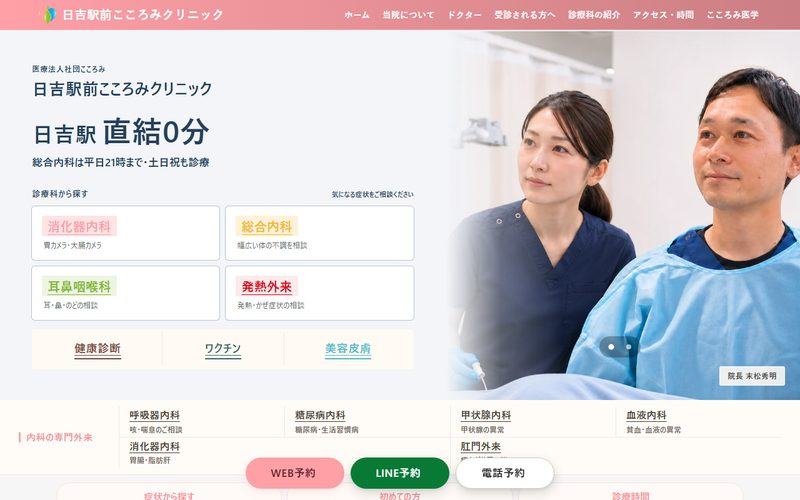
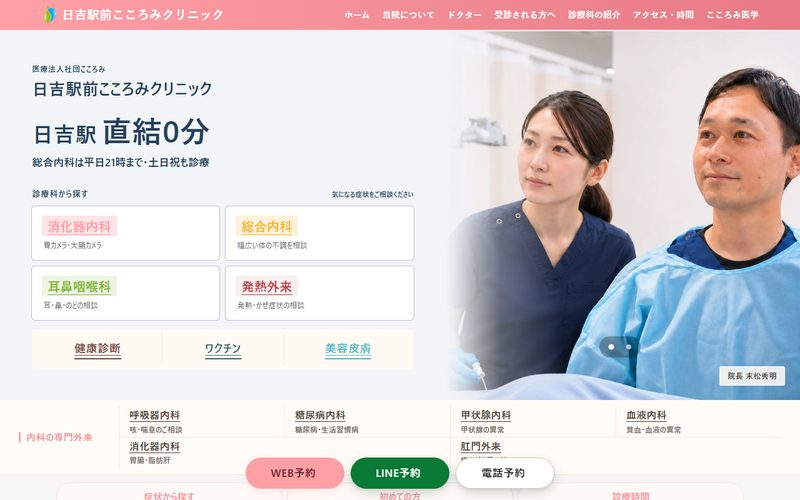
fix: 発熱外来の赤をおさえ、ヘッダーのグラデーションの右端をくすまない色に（v0.16.0）
- 発熱外来の赤 #E60012 → #BF3F48（濃い赤 #B4000E → #903139）。以前の案の「落ち着いた赤」。赤い面の予約ボタンの文字は白に
- ヘッダーの右端：黒を混ぜる（くすむ）のをやめ、同じ色相のまま明るさを下げ鮮やかさを保った色に
  （#E77984／#D49700／#649700／#004980／#009CAC／#DA764B／発熱 #9D1B2D）
- 読み込み版番号 ?v=0.16.0、縮小画像を撮り直し

Changed region(s): [[0.6875, 0.0, 1.0, 0.06], [0.2812, 0.54, 0.375, 0.6], [0.625, 0.0, 0.6562, 0.03]]

diff --git a/fv-patterns/assets/fvp.css b/fv-patterns/assets/fvp.css
@@ -1,4 +1,4 @@
-/* 最初の画面の背景7パターン v0.15.0（土台は 2026-06-23〜29 の色＝sample.css。v0.12.0 は5パターン、v0.13.0 で6・7を追加）
+/* 最初の画面の背景7パターン v0.16.0（土台は 2026-06-23〜29 の色＝sample.css。v0.12.0 は5パターン、v0.13.0 で6・7を追加）
    ご依頼（2026-11-26）：「6月のもとの色を採用。基本、新たな色はつくらない。
      各科のページ、トップのグロナビの色はグラデーションをかけて。
      各ページ、ファーストビューの写真の背景の各科の色はとる。かわりに、各科の背景色ではなく全科統一の背景色にする。
@@ -7,6 +7,7 @@
    追加のご依頼（2026-11-26）：「背景色に、うすいグレー、うすいネイビーも追加して」→ ⑥⑦
    さらに「うすいグレー・うすいネイビーはうすすぎた。グレー、ネイビーよりもう少しうすくした感じ」→ v0.14.0 で⑥⑦の濃さを変更
    さらに「薄いグレーをブルーグレーのもう少しこいのにできる？グレーみたいな感じ」→ v0.15.0 で⑥をブルーグレー（濃いめ）に
+   さらに「発熱外来の赤はもう少し色味をおさえて」→ v0.16.0 で発熱外来の赤を落ち着いた赤に（html.fvr・全パターン共通）
    html.fvp ＝ この見本 ／ html.fv1〜fv7 ＝ パターン ／ html.fvL ＝ 明るい背景（1〜3・6：文字を濃い色に） ／ html.fvD ＝ 暗い背景（4・5・7：文字は6月どおり白）
    新しく作った色はない：①⑤は②（v0.3.0）、②は案1（v0.9.0）で使った色、③の文字は各科の6月の濃い色、④のグレーはご指定、⑥は②のブルーグレー #41607F、⑦は⑤のネイビーを白で薄めた色（色相は同じ） */
 
@@ -21,11 +22,30 @@ html.fv6{--fv-bg:#BCC7D2;--fv-ink:#253F5C;--fv-line:rgba(37,63,92,.30)}   /* ブ
                                                                             v0.14.0 の「うすいグレー」#9EA2A5＋#2B3036 は color-sample-v0.14.0/ に凍結 */
 html.fv7{--fv-bg:#5C6F85;--fv-ink:#fff}                                    /* うすいネイビー＝⑤のネイビー #253F5C を白で25%薄く（L*46）＋白い文字 5.2:1 */
 
-/* ===== ヘッダー（グロナビ）：6月の色 → 右へ少し濃く（同じ色の濃淡。色相は変えない） =====
-   --jt-fill は sample.css が body に科ごとに置いている6月の面の色（トップ・消化器 #FFA0A7／総合内科 #F8B62D／耳鼻 #81B732／
-   心療 #0A65AC／皮膚 #4FBAC9／健診 #F29C78／発熱 #E60012）。科ごとの値になるよう body に置く。
+/* ===== 発熱外来の赤（全パターン共通・v0.16.0） =====
+   6月の #E60012 → #BF3F48、濃い赤 #B4000E → #903139（どちらも v0.5.0〜v0.7.0 の「落ち着いた赤」で使った色）。
+   発熱外来のページ全体（ヘッダーのグラデーション・ボタン・見出しなど）とトップの「発熱外来」の札に効く。
+   サイト側は --jfever-*（sample.css）と --jc-E60012・--jc-B4000E（発熱外来の style-fever.css）で赤を決めているので、その変数を置き換える */
+html.fvr{--jfever-main:#BF3F48;--jfever-text:#BF3F48;--jfever-fill:#BF3F48;--jfever-dark:#903139;--jc-E60012:#BF3F48;--jc-B4000E:#903139}
+/* 赤い面の予約ボタン（WEB予約・24時間いつでも など）：暗い赤の文字は 6月でも 2.8:1、落ち着いた赤では 2.4:1 になるので、白い文字に（5.2:1）。
+   v0.5.0〜v0.7.0 の「落ち着いた赤」と同じ扱い。白い面の予約ボタン（最初の画面の WEB予約）はそのまま */
+html.fvr:not(#_j):not(#_k):not(#_l) body#fever .div-cta a.a-button-cta-web:not(.hero-booking-action),
+html.fvr:not(#_j):not(#_k):not(#_l) body#fever .div-cta a.a-button-cta-web:not(.hero-booking-action) *{color:#fff!important}
+
+/* ===== ヘッダー（グロナビ）：左は6月の色そのまま → 右へ少し濃く。v0.16.0 で右端を「くすまない色」に =====
+   ご意見「各院グロナビのグラデーション、右側がくすんでて、もうすこし発色がいいくすまない色がいい」
+   v0.12.0〜v0.15.0 は右端を「黒を16%混ぜた色」にしていて、黒が混ざるぶん鮮やかさも落ちてくすんでいた。
+   v0.16.0 は右端を、同じ色相のまま「明るさ（OKLCH の L）を 0.10 下げ、鮮やかさ（C）を 1.2倍」にした色（sRGB に入る範囲で）。
+   発熱外来だけは「赤をおさえて」のご依頼どおり、鮮やかさは上げず明るさだけ下げた。古いブラウザでも同じに見えるよう、計算した色を書く。
+   --jt-fill は sample.css が body に科ごとに置いている左端の色。科ごとの値になるよう body に置く。
    ヘッダーの色はサイト側の @layer clinicHeaderDesktop（!important）が決めるので、sample.css で先に宣言した jsample レイヤーの中で上書きする */
-html.fvp body{--fv-head:linear-gradient(90deg,var(--jt-fill) 0%,color-mix(in oklab,var(--jt-fill) 84%,#000) 100%)}
+html.fvp body{--fv-head-r:#E77984;--fv-head:linear-gradient(90deg,var(--jt-fill) 0%,var(--fv-head-r) 100%)}   /* トップ・消化器 #FFA0A7 → #E77984 */
+html.fvp body#general{--fv-head-r:#D49700}    /* #F8B62D → #D49700 */
+html.fvp body#ent{--fv-head-r:#649700}        /* #81B732 → #649700 */
+html.fvp body#mental{--fv-head-r:#004980}     /* #0A65AC → #004980 */
+html.fvp body#derm{--fv-head-r:#009CAC}       /* #4FBAC9 → #009CAC */
+html.fvp body#checkups{--fv-head-r:#DA764B}   /* #F29C78 → #DA764B */
+html.fvp body#fever{--fv-head-r:#9D1B2D}      /* 発熱（落ち着いた赤）#BF3F48 → #9D1B2D */
 @layer jsample{
   html.fvp body #header:not(:has(.div-header-global)),html.fvp body #header .div-header-global{background:var(--fv-head)!important}
 }

diff --git a/fv-patterns/checkups/index.html b/fv-patterns/checkups/index.html
@@ -3,10 +3,10 @@
 <html lang="ja">
   <head prefix="og: http://ogp.me/ns# fb: http://ogp.me/ns/fb# website: http://ogp.me/ns/website#">
 <meta name="robots" content="noindex,nofollow">
-<script>(function(){var h=document.documentElement,q=(location.search.match(/[?&]p=([1-7])\b/)||[])[1],s=null;try{s=localStorage.getItem("jFvPat")}catch(e){}var m=q||s||"1";if(!/^[1-7]$/.test(m))m="1";if(q){try{localStorage.setItem("jFvPat",m)}catch(e){}}h.classList.add("fvp","fv"+m,/^[1236]$/.test(m)?"fvL":"fvD")})();</script>
+<script>(function(){var h=document.documentElement,q=(location.search.match(/[?&]p=([1-7])\b/)||[])[1],s=null;try{s=localStorage.getItem("jFvPat")}catch(e){}var m=q||s||"1";if(!/^[1-7]$/.test(m))m="1";if(q){try{localStorage.setItem("jFvPat",m)}catch(e){}}h.classList.add("fvp","fvr","fv"+m,/^[1236]$/.test(m)?"fvL":"fvD")})();</script>
 
-<link rel="stylesheet" href="../assets/sample.css?v=0.15.0">
-<link rel="stylesheet" href="../assets/fvp.css?v=0.15.0">
+<link rel="stylesheet" href="../assets/sample.css?v=0.16.0">
+<link rel="stylesheet" href="../assets/fvp.css?v=0.16.0">
 
 
 
@@ -1674,7 +1674,7 @@ margin-block-end: 24px;
 var e="script#wp-emoji-settings",t=document.querySelector(e);if(!(t instanceof HTMLScriptElement))throw new Error("Element missing: "+e);const r=JSON.parse(t.text),s=(window._wpemojiSettings=r,"wpEmojiSettingsSupports"),o=["flag","emoji"];function i(e){try{var t={supportTests:e,timestamp:(new Date).valueOf()};sessionStorage.setItem(s,JSON.stringify(t))}catch(e){}}function c(e,t,n){e.clearRect(0,0,e.canvas.width,e.canvas.height),e.fillText(t,0,0);t=new Uint32Array(e.getImageData(0,0,e.canvas.width,e.canvas.height).data);e.clearRect(0,0,e.canvas.width,e.canvas.height),e.fillText(n,0,0);const r=new Uint32Array(e.getImageData(0,0,e.canvas.width,e.canvas.height).data);return t.every((e,t)=>e===r[t])}function p(e,t){e.clearRect(0,0,e.canvas.width,e.canvas.height),e.fillText(t,0,0);var n=e.getImageData(16,16,1,1);for(let e=0;e<n.data.length;e++)if(0!==n.data[e])return!1;return!0}function u(e,t,n,r){switch(t){case"flag":return n(e,"\ud83c\udff3\ufe0f\u200d\u26a7\ufe0f","\ud83c\udff3\ufe0f\u200b\u26a7\ufe0f")?!1:!n(e,"\ud83c\udde8\ud83c\uddf6","\ud83c\udde8\u200b\ud83c\uddf6")&&!n(e,"\ud83c\udff4\udb40\udc67\udb40\udc62\udb40\udc65\udb40\udc6e\udb40\udc67\udb40\udc7f","\ud83c\udff4\u200b\udb40\udc67\u200b\udb40\udc62\u200b\udb40\udc65\u200b\udb40\udc6e\u200b\udb40\udc67\u200b\udb40\udc7f");case"emoji":return!r(e,"\ud83e\u1fac8")}return!1}function f(e,t,n,r){let a;const s=(a="undefined"!=typeof WorkerGlobalScope&&self instanceof WorkerGlobalScope?new OffscreenCanvas(300,150):document.createElement("canvas")).getContext("2d",{willReadFrequently:!0}),o=(s.textBaseline="top",s.font="600 32px Arial",{});return e.forEach(e=>{o[e]=t(s,e,n,r)}),o}function a(e){var t=document.createElement("script");t.src=e,t.defer=!0,document.head.appendChild(t)}r.supports={everything:!0,everythingExceptFlag:!0},new Promise(t=>{let n=function(){try{var e=JSON.parse(sessionStorage.getItem(s));if("object"==typeof e&&"number"==typeof e.timestamp&&(new Date).valueOf()<e.timestamp+604800&&"object"==typeof e.supportTests)return e.supportTests}catch(e){}return null}();if(!n){if("undefined"!=typeof Worker&&"undefined"!=typeof OffscreenCanvas&&"undefined"!=typeof URL&&URL.createObjectURL&&"undefined"!=typeof Blob)try{var e="postMessage("+f.toString()+"("+[JSON.stringify(o),u.toString(),c.toString(),p.toString()].join(",")+"));",r=new Blob([e],{type:"text/javascript"});const a=new Worker(URL.createObjectURL(r),{name:"wpTestEmojiSupports"});return void(a.onmessage=e=>{i(n=e.data),a.terminate(),t(n)})}catch(e){}i(n=f(o,u,c,p))}t(n)}).then(e=>{for(const n in e)r.supports[n]=e[n],r.supports.everything=r.supports.everything&&r.supports[n],"flag"!==n&&(r.supports.everythingExceptFlag=r.supports.everythingExceptFlag&&r.supports[n]);var t;r.supports.everythingExceptFlag=r.supports.everythingExceptFlag&&!r.supports.flag,r.supports.everything||((t=r.source||{}).concatemoji?a(t.concatemoji):t.wpemoji&&t.twemoji&&(a(t.twemoji),a(t.wpemoji)))});
 //# sourceURL=https://hiyoshi-cocoromi-cl.jp/wp-includes/js/wp-emoji-loader.min.js
 </script>
-  <script src="../assets/fvp.js?v=0.15.0" data-page="checkups"></script>
+  <script src="../assets/fvp.js?v=0.16.0" data-page="checkups"></script>
 </body>
 </html>
 

diff --git a/fv-patterns/general/index.html b/fv-patterns/general/index.html
@@ -3,10 +3,10 @@
 <html lang="ja">
   <head prefix="og: http://ogp.me/ns# fb: http://ogp.me/ns/fb# website: http://ogp.me/ns/website#">
 <meta name="robots" content="noindex,nofollow">
-<script>(function(){var h=document.documentElement,q=(location.search.match(/[?&]p=([1-7])\b/)||[])[1],s=null;try{s=localStorage.getItem("jFvPat")}catch(e){}var m=q||s||"1";if(!/^[1-7]$/.test(m))m="1";if(q){try{localStorage.setItem("jFvPat",m)}catch(e){}}h.classList.add("fvp","fv"+m,/^[1236]$/.test(m)?"fvL":"fvD")})();</script>
+<script>(function(){var h=document.documentElement,q=(location.search.match(/[?&]p=([1-7])\b/)||[])[1],s=null;try{s=localStorage.getItem("jFvPat")}catch(e){}var m=q||s||"1";if(!/^[1-7]$/.test(m))m="1";if(q){try{localStorage.setItem("jFvPat",m)}catch(e){}}h.classList.add("fvp","fvr","fv"+m,/^[1236]$/.test(m)?"fvL":"fvD")})();</script>
 
-<link rel="stylesheet" href="../assets/sample.css?v=0.15.0">
-<link rel="stylesheet" href="../assets/fvp.css?v=0.15.0">
+<link rel="stylesheet" href="../assets/sample.css?v=0.16.0">
+<link rel="stylesheet" href="../assets/fvp.css?v=0.16.0">
 
 
 
@@ -1950,7 +1950,7 @@ margin-block-end: 24px;
 var e="script#wp-emoji-settings",t=document.querySelector(e);if(!(t instanceof HTMLScriptElement))throw new Error("Element missing: "+e);const r=JSON.parse(t.text),s=(window._wpemojiSettings=r,"wpEmojiSettingsSupports"),o=["flag","emoji"];function i(e){try{var t={supportTests:e,timestamp:(new Date).valueOf()};sessionStorage.setItem(s,JSON.stringify(t))}catch(e){}}function c(e,t,n){e.clearRect(0,0,e.canvas.width,e.canvas.height),e.fillText(t,0,0);t=new Uint32Array(e.getImageData(0,0,e.canvas.width,e.canvas.height).data);e.clearRect(0,0,e.canvas.width,e.canvas.height),e.fillText(n,0,0);const r=new Uint32Array(e.getImageData(0,0,e.canvas.width,e.canvas.height).data);return t.every((e,t)=>e===r[t])}function p(e,t){e.clearRect(0,0,e.canvas.width,e.canvas.height),e.fillText(t,0,0);var n=e.getImageData(16,16,1,1);for(let e=0;e<n.data.length;e++)if(0!==n.data[e])return!1;return!0}function u(e,t,n,r){switch(t){case"flag":return n(e,"\ud83c\udff3\ufe0f\u200d\u26a7\ufe0f","\ud83c\udff3\ufe0f\u200b\u26a7\ufe0f")?!1:!n(e,"\ud83c\udde8\ud83c\uddf6","\ud83c\udde8\u200b\ud83c\uddf6")&&!n(e,"\ud83c\udff4\udb40\udc67\udb40\udc62\udb40\udc65\udb40\udc6e\udb40\udc67\udb40\udc7f","\ud83c\udff4\u200b\udb40\udc67\u200b\udb40\udc62\u200b\udb40\udc65\u200b\udb40\udc6e\u200b\udb40\udc67\u200b\udb40\udc7f");case"emoji":return!r(e,"\ud83e\u1fac8")}return!1}function f(e,t,n,r){let a;const s=(a="undefined"!=typeof WorkerGlobalScope&&self instanceof WorkerGlobalScope?new OffscreenCanvas(300,150):document.createElement("canvas")).getContext("2d",{willReadFrequently:!0}),o=(s.textBaseline="top",s.font="600 32px Arial",{});return e.forEach(e=>{o[e]=t(s,e,n,r)}),o}function a(e){var t=document.createElement("script");t.src=e,t.defer=!0,document.head.appendChild(t)}r.supports={everything:!0,everythingExceptFlag:!0},new Promise(t=>{let n=function(){try{var e=JSON.parse(sessionStorage.getItem(s));if("object"==typeof e&&"number"==typeof e.timestamp&&(new Date).valueOf()<e.timestamp+604800&&"object"==typeof e.supportTests)return e.supportTests}catch(e){}return null}();if(!n){if("undefined"!=typeof Worker&&"undefined"!=typeof OffscreenCanvas&&"undefined"!=typeof URL&&URL.createObjectURL&&"undefined"!=typeof Blob)try{var e="postMessage("+f.toString()+"("+[JSON.stringify(o),u.toString(),c.toString(),p.toString()].join(",")+"));",r=new Blob([e],{type:"text/javascript"});const a=new Worker(URL.createObjectURL(r),{name:"wpTestEmojiSupports"});return void(a.onmessage=e=>{i(n=e.data),a.terminate(),t(n)})}catch(e){}i(n=f(o,u,c,p))}t(n)}).then(e=>{for(const n in e)r.supports[n]=e[n],r.supports.everything=r.supports.everything&&r.supports[n],"flag"!==n&&(r.supports.everythingExceptFlag=r.supports.everythingExceptFlag&&r.supports[n]);var t;r.supports.everythingExceptFlag=r.supports.everythingExceptFlag&&!r.supports.flag,r.supports.everything||((t=r.source||{}).concatemoji?a(t.concatemoji):t.wpemoji&&t.twemoji&&(a(t.twemoji),a(t.wpemoji)))});
 //# sourceURL=https://hiyoshi-cocoromi-cl.jp/wp-includes/js/wp-emoji-loader.min.js
 </script>
-  <script src="../assets/fvp.js?v=0.15.0" data-page="general"></script>
+  <script src="../assets/fvp.js?v=0.16.0" data-page="general"></script>
 </body>
 </html>
 

diff --git a/fv-patterns/gastro/index.html b/fv-patterns/gastro/index.html
@@ -3,10 +3,10 @@
 <html lang="ja">
   <head prefix="og: http://ogp.me/ns# fb: http://ogp.me/ns/fb# website: http://ogp.me/ns/website#">
 <meta name="robots" content="noindex,nofollow">
-<script>(function(){var h=document.documentElement,q=(location.search.match(/[?&]p=([1-7])\b/)||[])[1],s=null;try{s=localStorage.getItem("jFvPat")}catch(e){}var m=q||s||"1";if(!/^[1-7]$/.test(m))m="1";if(q){try{localStorage.setItem("jFvPat",m)}catch(e){}}h.classList.add("fvp","fv"+m,/^[1236]$/.test(m)?"fvL":"fvD")})();</script>
+<script>(function(){var h=document.documentElement,q=(location.search.match(/[?&]p=([1-7])\b/)||[])[1],s=null;try{s=localStorage.getItem("jFvPat")}catch(e){}var m=q||s||"1";if(!/^[1-7]$/.test(m))m="1";if(q){try{localStorage.setItem("jFvPat",m)}catch(e){}}h.classList.add("fvp","fvr","fv"+m,/^[1236]$/.test(m)?"fvL":"fvD")})();</script>
 
-<link rel="stylesheet" href="../assets/sample.css?v=0.15.0">
-<link rel="stylesheet" href="../assets/fvp.css?v=0.15.0">
+<link rel="stylesheet" href="../assets/sample.css?v=0.16.0">
+<link rel="stylesheet" href="../assets/fvp.css?v=0.16.0">
 
 
 
@@ -2147,7 +2147,7 @@ margin-block-end: 24px;
 var e="script#wp-emoji-settings",t=document.querySelector(e);if(!(t instanceof HTMLScriptElement))throw new Error("Element missing: "+e);const r=JSON.parse(t.text),s=(window._wpemojiSettings=r,"wpEmojiSettingsSupports"),o=["flag","emoji"];function i(e){try{var t={supportTests:e,timestamp:(new Date).valueOf()};sessionStorage.setItem(s,JSON.stringify(t))}catch(e){}}function c(e,t,n){e.clearRect(0,0,e.canvas.width,e.canvas.height),e.fillText(t,0,0);t=new Uint32Array(e.getImageData(0,0,e.canvas.width,e.canvas.height).data);e.clearRect(0,0,e.canvas.width,e.canvas.height),e.fillText(n,0,0);const r=new Uint32Array(e.getImageData(0,0,e.canvas.width,e.canvas.height).data);return t.every((e,t)=>e===r[t])}function p(e,t){e.clearRect(0,0,e.canvas.width,e.canvas.height),e.fillText(t,0,0);var n=e.getImageData(16,16,1,1);for(let e=0;e<n.data.length;e++)if(0!==n.data[e])return!1;return!0}function u(e,t,n,r){switch(t){case"flag":return n(e,"\ud83c\udff3\ufe0f\u200d\u26a7\ufe0f","\ud83c\udff3\ufe0f\u200b\u26a7\ufe0f")?!1:!n(e,"\ud83c\udde8\ud83c\uddf6","\ud83c\udde8\u200b\ud83c\uddf6")&&!n(e,"\ud83c\udff4\udb40\udc67\udb40\udc62\udb40\udc65\udb40\udc6e\udb40\udc67\udb40\udc7f","\ud83c\udff4\u200b\udb40\udc67\u200b\udb40\udc62\u200b\udb40\udc65\u200b\udb40\udc6e\u200b\udb40\udc67\u200b\udb40\udc7f");case"emoji":return!r(e,"\ud83e\u1fac8")}return!1}function f(e,t,n,r){let a;const s=(a="undefined"!=typeof WorkerGlobalScope&&self instanceof WorkerGlobalScope?new OffscreenCanvas(300,150):document.createElement("canvas")).getContext("2d",{willReadFrequently:!0}),o=(s.textBaseline="top",s.font="600 32px Arial",{});return e.forEach(e=>{o[e]=t(s,e,n,r)}),o}function a(e){var t=document.createElement("script");t.src=e,t.defer=!0,document.head.appendChild(t)}r.supports={everything:!0,everythingExceptFlag:!0},new Promise(t=>{let n=function(){try{var e=JSON.parse(sessionStorage.getItem(s));if("object"==typeof e&&"number"==typeof e.timestamp&&(new Date).valueOf()<e.timestamp+604800&&"object"==typeof e.supportTests)return e.supportTests}catch(e){}return null}();if(!n){if("undefined"!=typeof Worker&&"undefined"!=typeof OffscreenCanvas&&"undefined"!=typeof URL&&URL.createObjectURL&&"undefined"!=typeof Blob)try{var e="postMessage("+f.toString()+"("+[JSON.stringify(o),u.toString(),c.toString(),p.toString()].join(",")+"));",r=new Blob([e],{type:"text/javascript"});const a=new Worker(URL.createObjectURL(r),{name:"wpTestEmojiSupports"});return void(a.onmessage=e=>{i(n=e.data),a.terminate(),t(n)})}catch(e){}i(n=f(o,u,c,p))}t(n)}).then(e=>{for(const n in e)r.supports[n]=e[n],r.supports.everything=r.supports.everything&&r.supports[n],"flag"!==n&&(r.supports.everythingExceptFlag=r.supports.everythingExceptFlag&&r.supports[n]);var t;r.supports.everythingExceptFlag=r.supports.everythingExceptFlag&&!r.supports.flag,r.supports.everything||((t=r.source||{}).concatemoji?a(t.concatemoji):t.wpemoji&&t.twemoji&&(a(t.twemoji),a(t.wpemoji)))});
 //# sourceURL=https://hiyoshi-cocoromi-cl.jp/wp-includes/js/wp-emoji-loader.min.js
 </script>
-  <script src="../assets/fvp.js?v=0.15.0" data-page="gastro"></script>
+  <script src="../assets/fvp.js?v=0.16.0" data-page="gastro"></script>
 </body>
 </html>
 

diff --git a/fv-patterns/mental/index.html b/fv-patterns/mental/index.html
@@ -3,10 +3,10 @@
 <html lang="ja">
   <head prefix="og: http://ogp.me/ns# fb: http://ogp.me/ns/fb# website: http://ogp.me/ns/website#">
 <meta name="robots" content="noindex,nofollow">
-<script>(function(){var h=document.documentElement,q=(location.search.match(/[?&]p=([1-7])\b/)||[])[1],s=null;try{s=localStorage.getItem("jFvPat")}catch(e){}var m=q||s||"1";if(!/^[1-7]$/.test(m))m="1";if(q){try{localStorage.setItem("jFvPat",m)}catch(e){}}h.classList.add("fvp","fv"+m,/^[1236]$/.test(m)?"fvL":"fvD")})();</script>
+<script>(function(){var h=document.documentElement,q=(location.search.match(/[?&]p=([1-7])\b/)||[])[1],s=null;try{s=localStorage.getItem("jFvPat")}catch(e){}var m=q||s||"1";if(!/^[1-7]$/.test(m))m="1";if(q){try{localStorage.setItem("jFvPat",m)}catch(e){}}h.classList.add("fvp","fvr","fv"+m,/^[1236]$/.test(m)?"fvL":"fvD")})();</script>
 
-<link rel="stylesheet" href="../assets/sample.css?v=0.15.0">
-<link rel="stylesheet" href="../assets/fvp.css?v=0.15.0">
+<link rel="stylesheet" href="../assets/sample.css?v=0.16.0">
+<link rel="stylesheet" href="../assets/fvp.css?v=0.16.0">
 
 
 
@@ -1375,7 +1375,7 @@ margin-block-end: 24px;
 var e="script#wp-emoji-settings",t=document.querySelector(e);if(!(t instanceof HTMLScriptElement))throw new Error("Element missing: "+e);const r=JSON.parse(t.text),s=(window._wpemojiSettings=r,"wpEmojiSettingsSupports"),o=["flag","emoji"];function i(e){try{var t={supportTests:e,timestamp:(new Date).valueOf()};sessionStorage.setItem(s,JSON.stringify(t))}catch(e){}}function c(e,t,n){e.clearRect(0,0,e.canvas.width,e.canvas.height),e.fillText(t,0,0);t=new Uint32Array(e.getImageData(0,0,e.canvas.width,e.canvas.height).data);e.clearRect(0,0,e.canvas.width,e.canvas.height),e.fillText(n,0,0);const r=new Uint32Array(e.getImageData(0,0,e.canvas.width,e.canvas.height).data);return t.every((e,t)=>e===r[t])}function p(e,t){e.clearRect(0,0,e.canvas.width,e.canvas.height),e.fillText(t,0,0);var n=e.getImageData(16,16,1,1);for(let e=0;e<n.data.length;e++)if(0!==n.data[e])return!1;return!0}function u(e,t,n,r){switch(t){case"flag":return n(e,"\ud83c\udff3\ufe0f\u200d\u26a7\ufe0f","\ud83c\udff3\ufe0f\u200b\u26a7\ufe0f")?!1:!n(e,"\ud83c\udde8\ud83c\uddf6","\ud83c\udde8\u200b\ud83c\uddf6")&&!n(e,"\ud83c\udff4\udb40\udc67\udb40\udc62\udb40\udc65\udb40\udc6e\udb40\udc67\udb40\udc7f","\ud83c\udff4\u200b\udb40\udc67\u200b\udb40\udc62\u200b\udb40\udc65\u200b\udb40\udc6e\u200b\udb40\udc67\u200b\udb40\udc7f");case"emoji":return!r(e,"\ud83e\u1fac8")}return!1}function f(e,t,n,r){let a;const s=(a="undefined"!=typeof WorkerGlobalScope&&self instanceof WorkerGlobalScope?new OffscreenCanvas(300,150):document.createElement("canvas")).getContext("2d",{willReadFrequently:!0}),o=(s.textBaseline="top",s.font="600 32px Arial",{});return e.forEach(e=>{o[e]=t(s,e,n,r)}),o}function a(e){var t=document.createElement("script");t.src=e,t.defer=!0,document.head.appendChild(t)}r.supports={everything:!0,everythingExceptFlag:!0},new Promise(t=>{let n=function(){try{var e=JSON.parse(sessionStorage.getItem(s));if("object"==typeof e&&"number"==typeof e.timestamp&&(new Date).valueOf()<e.timestamp+604800&&"object"==typeof e.supportTests)return e.supportTests}catch(e){}return null}();if(!n){if("undefined"!=typeof Worker&&"undefined"!=typeof OffscreenCanvas&&"undefined"!=typeof URL&&URL.createObjectURL&&"undefined"!=typeof Blob)try{var e="postMessage("+f.toString()+"("+[JSON.stringify(o),u.toString(),c.toString(),p.toString()].join(",")+"));",r=new Blob([e],{type:"text/javascript"});const a=new Worker(URL.createObjectURL(r),{name:"wpTestEmojiSupports"});return void(a.onmessage=e=>{i(n=e.data),a.terminate(),t(n)})}catch(e){}i(n=f(o,u,c,p))}t(n)}).then(e=>{for(const n in e)r.supports[n]=e[n],r.supports.everything=r.supports.everything&&r.supports[n],"flag"!==n&&(r.supports.everythingExceptFlag=r.supports.everythingExceptFlag&&r.supports[n]);var t;r.supports.everythingExceptFlag=r.supports.everythingExceptFlag&&!r.supports.flag,r.supports.everything||((t=r.source||{}).concatemoji?a(t.concatemoji):t.wpemoji&&t.twemoji&&(a(t.twemoji),a(t.wpemoji)))});
 //# sourceURL=https://hiyoshi-cocoromi-cl.jp/wp-includes/js/wp-emoji-loader.min.js
 </script>
-  <script src="../assets/fvp.js?v=0.15.0" data-page="mental"></script>
+  <script src="../assets/fvp.js?v=0.16.0" data-page="mental"></script>
 </body>
 </html>
 

diff --git a/fv-patterns/fever/index.html b/fv-patterns/fever/index.html
@@ -2,10 +2,10 @@
 <html lang="ja">
   <head prefix="og: http://ogp.me/ns# fb: http://ogp.me/ns/fb# website: http://ogp.me/ns/website#">
 <meta name="robots" content="noindex,nofollow">
-<script>(function(){var h=document.documentElement,q=(location.search.match(/[?&]p=([1-7])\b/)||[])[1],s=null;try{s=localStorage.getItem("jFvPat")}catch(e){}var m=q||s||"1";if(!/^[1-7]$/.test(m))m="1";if(q){try{localStorage.setItem("jFvPat",m)}catch(e){}}h.classList.add("fvp","fv"+m,/^[1236]$/.test(m)?"fvL":"fvD")})();</script>
+<script>(function(){var h=document.documentElement,q=(location.search.match(/[?&]p=([1-7])\b/)||[])[1],s=null;try{s=localStorage.getItem("jFvPat")}catch(e){}var m=q||s||"1";if(!/^[1-7]$/.test(m))m="1";if(q){try{localStorage.setItem("jFvPat",m)}catch(e){}}h.classList.add("fvp","fvr","fv"+m,/^[1236]$/.test(m)?"fvL":"fvD")})();</script>
 
-<link rel="stylesheet" href="../assets/sample.css?v=0.15.0">
-<link rel="stylesheet" href="../assets/fvp.css?v=0.15.0">
+<link rel="stylesheet" href="../assets/sample.css?v=0.16.0">
+<link rel="stylesheet" href="../assets/fvp.css?v=0.16.0">
 
 
 
@@ -1501,7 +1501,7 @@ margin-block-end: 24px;
 var e="script#wp-emoji-settings",t=document.querySelector(e);if(!(t instanceof HTMLScriptElement))throw new Error("Element missing: "+e);const r=JSON.parse(t.text),s=(window._wpemojiSettings=r,"wpEmojiSettingsSupports"),o=["flag","emoji"];function i(e){try{var t={supportTests:e,timestamp:(new Date).valueOf()};sessionStorage.setItem(s,JSON.stringify(t))}catch(e){}}function c(e,t,n){e.clearRect(0,0,e.canvas.width,e.canvas.height),e.fillText(t,0,0);t=new Uint32Array(e.getImageData(0,0,e.canvas.width,e.canvas.height).data);e.clearRect(0,0,e.canvas.width,e.canvas.height),e.fillText(n,0,0);const r=new Uint32Array(e.getImageData(0,0,e.canvas.width,e.canvas.height).data);return t.every((e,t)=>e===r[t])}function p(e,t){e.clearRect(0,0,e.canvas.width,e.canvas.height),e.fillText(t,0,0);var n=e.getImageData(16,16,1,1);for(let e=0;e<n.data.length;e++)if(0!==n.data[e])return!1;return!0}function u(e,t,n,r){switch(t){case"flag":return n(e,"\ud83c\udff3\ufe0f\u200d\u26a7\ufe0f","\ud83c\udff3\ufe0f\u200b\u26a7\ufe0f")?!1:!n(e,"\ud83c\udde8\ud83c\uddf6","\ud83c\udde8\u200b\ud83c\uddf6")&&!n(e,"\ud83c\udff4\udb40\udc67\udb40\udc62\udb40\udc65\udb40\udc6e\udb40\udc67\udb40\udc7f","\ud83c\udff4\u200b\udb40\udc67\u200b\udb40\udc62\u200b\udb40\udc65\u200b\udb40\udc6e\u200b\udb40\udc67\u200b\udb40\udc7f");case"emoji":return!r(e,"\ud83e\u1fac8")}return!1}function f(e,t,n,r){let a;const s=(a="undefined"!=typeof WorkerGlobalScope&&self instanceof WorkerGlobalScope?new OffscreenCanvas(300,150):document.createElement("canvas")).getContext("2d",{willReadFrequently:!0}),o=(s.textBaseline="top",s.font="600 32px Arial",{});return e.forEach(e=>{o[e]=t(s,e,n,r)}),o}function a(e){var t=document.createElement("script");t.src=e,t.defer=!0,document.head.appendChild(t)}r.supports={everything:!0,everythingExceptFlag:!0},new Promise(t=>{let n=function(){try{var e=JSON.parse(sessionStorage.getItem(s));if("object"==typeof e&&"number"==typeof e.timestamp&&(new Date).valueOf()<e.timestamp+604800&&"object"==typeof e.supportTests)return e.supportTests}catch(e){}return null}();if(!n){if("undefined"!=typeof Worker&&"undefined"!=typeof OffscreenCanvas&&"undefined"!=typeof URL&&URL.createObjectURL&&"undefined"!=typeof Blob)try{var e="postMessage("+f.toString()+"("+[JSON.stringify(o),u.toString(),c.toString(),p.toString()].join(",")+"));",r=new Blob([e],{type:"text/javascript"});const a=new Worker(URL.createObjectURL(r),{name:"wpTestEmojiSupports"});return void(a.onmessage=e=>{i(n=e.data),a.terminate(),t(n)})}catch(e){}i(n=f(o,u,c,p))}t(n)}).then(e=>{for(const n in e)r.supports[n]=e[n],r.supports.everything=r.supports.everything&&r.supports[n],"flag"!==n&&(r.supports.everythingExceptFlag=r.supports.everythingExceptFlag&&r.supports[n]);var t;r.supports.everythingExceptFlag=r.supports.everythingExceptFlag&&!r.supports.flag,r.supports.everything||((t=r.source||{}).concatemoji?a(t.concatemoji):t.wpemoji&&t.twemoji&&(a(t.twemoji),a(t.wpemoji)))});
 //# sourceURL=https://hiyoshi-cocoromi-cl.jp/wp-includes/js/wp-emoji-loader.min.js
 </script>
-  <script src="../assets/fvp.js?v=0.15.0" data-page="fever"></script>
+  <script src="../assets/fvp.js?v=0.16.0" data-page="fever"></script>
 </body>
 </html>
 

diff --git a/fv-patterns/derm/index.html b/fv-patterns/derm/index.html
@@ -3,10 +3,10 @@
 <html lang="ja">
   <head prefix="og: http://ogp.me/ns# fb: http://ogp.me/ns/fb# website: http://ogp.me/ns/website#">
 <meta name="robots" content="noindex,nofollow">
-<script>(function(){var h=document.documentElement,q=(location.search.match(/[?&]p=([1-7])\b/)||[])[1],s=null;try{s=localStorage.getItem("jFvPat")}catch(e){}var m=q||s||"1";if(!/^[1-7]$/.test(m))m="1";if(q){try{localStorage.setItem("jFvPat",m)}catch(e){}}h.classList.add("fvp","fv"+m,/^[1236]$/.test(m)?"fvL":"fvD")})();</script>
+<script>(function(){var h=document.documentElement,q=(location.search.match(/[?&]p=([1-7])\b/)||[])[1],s=null;try{s=localStorage.getItem("jFvPat")}catch(e){}var m=q||s||"1";if(!/^[1-7]$/.test(m))m="1";if(q){try{localStorage.setItem("jFvPat",m)}catch(e){}}h.classList.add("fvp","fvr","fv"+m,/^[1236]$/.test(m)?"fvL":"fvD")})();</script>
 
-<link rel="stylesheet" href="../assets/sample.css?v=0.15.0">
-<link rel="stylesheet" href="../assets/fvp.css?v=0.15.0">
+<link rel="stylesheet" href="../assets/sample.css?v=0.16.0">
+<link rel="stylesheet" href="../assets/fvp.css?v=0.16.0">
 
 
 
@@ -1524,7 +1524,7 @@ margin-block-end: 24px;
 var e="script#wp-emoji-settings",t=document.querySelector(e);if(!(t instanceof HTMLScriptElement))throw new Error("Element missing: "+e);const r=JSON.parse(t.text),s=(window._wpemojiSettings=r,"wpEmojiSettingsSupports"),o=["flag","emoji"];function i(e){try{var t={supportTests:e,timestamp:(new Date).valueOf()};sessionStorage.setItem(s,JSON.stringify(t))}catch(e){}}function c(e,t,n){e.clearRect(0,0,e.canvas.width,e.canvas.height),e.fillText(t,0,0);t=new Uint32Array(e.getImageData(0,0,e.canvas.width,e.canvas.height).data);e.clearRect(0,0,e.canvas.width,e.canvas.height),e.fillText(n,0,0);const r=new Uint32Array(e.getImageData(0,0,e.canvas.width,e.canvas.height).data);return t.every((e,t)=>e===r[t])}function p(e,t){e.clearRect(0,0,e.canvas.width,e.canvas.height),e.fillText(t,0,0);var n=e.getImageData(16,16,1,1);for(let e=0;e<n.data.length;e++)if(0!==n.data[e])return!1;return!0}function u(e,t,n,r){switch(t){case"flag":return n(e,"\ud83c\udff3\ufe0f\u200d\u26a7\ufe0f","\ud83c\udff3\ufe0f\u200b\u26a7\ufe0f")?!1:!n(e,"\ud83c\udde8\ud83c\uddf6","\ud83c\udde8\u200b\ud83c\uddf6")&&!n(e,"\ud83c\udff4\udb40\udc67\udb40\udc62\udb40\udc65\udb40\udc6e\udb40\udc67\udb40\udc7f","\ud83c\udff4\u200b\udb40\udc67\u200b\udb40\udc62\u200b\udb40\udc65\u200b\udb40\udc6e\u200b\udb40\udc67\u200b\udb40\udc7f");case"emoji":return!r(e,"\ud83e\u1fac8")}return!1}function f(e,t,n,r){let a;const s=(a="undefined"!=typeof WorkerGlobalScope&&self instanceof WorkerGlobalScope?new OffscreenCanvas(300,150):document.createElement("canvas")).getContext("2d",{willReadFrequently:!0}),o=(s.textBaseline="top",s.font="600 32px Arial",{});return e.forEach(e=>{o[e]=t(s,e,n,r)}),o}function a(e){var t=document.createElement("script");t.src=e,t.defer=!0,document.head.appendChild(t)}r.supports={everything:!0,everythingExceptFlag:!0},new Promise(t=>{let n=function(){try{var e=JSON.parse(sessionStorage.getItem(s));if("object"==typeof e&&"number"==typeof e.timestamp&&(new Date).valueOf()<e.timestamp+604800&&"object"==typeof e.supportTests)return e.supportTests}catch(e){}return null}();if(!n){if("undefined"!=typeof Worker&&"undefined"!=typeof OffscreenCanvas&&"undefined"!=typeof URL&&URL.createObjectURL&&"undefined"!=typeof Blob)try{var e="postMessage("+f.toString()+"("+[JSON.stringify(o),u.toString(),c.toString(),p.toString()].join(",")+"));",r=new Blob([e],{type:"text/javascript"});const a=new Worker(URL.createObjectURL(r),{name:"wpTestEmojiSupports"});return void(a.onmessage=e=>{i(n=e.data),a.terminate(),t(n)})}catch(e){}i(n=f(o,u,c,p))}t(n)}).then(e=>{for(const n in e)r.supports[n]=e[n],r.supports.everything=r.supports.everything&&r.supports[n],"flag"!==n&&(r.supports.everythingExceptFlag=r.supports.everythingExceptFlag&&r.supports[n]);var t;r.supports.everythingExceptFlag=r.supports.everythingExceptFlag&&!r.supports.flag,r.supports.everything||((t=r.source||{}).concatemoji?a(t.concatemoji):t.wpemoji&&t.twemoji&&(a(t.twemoji),a(t.wpemoji)))});
 //# sourceURL=https://hiyoshi-cocoromi-cl.jp/wp-includes/js/wp-emoji-loader.min.js
 </script>
-  <script src="../assets/fvp.js?v=0.15.0" data-page="derm"></script>
+  <script src="../assets/fvp.js?v=0.16.0" data-page="derm"></script>
 </body>
 </html>
 

diff --git a/fv-patterns/ent/index.html b/fv-patterns/ent/index.html
@@ -3,10 +3,10 @@
 <html lang="ja">
   <head prefix="og: http://ogp.me/ns# fb: http://ogp.me/ns/fb# website: http://ogp.me/ns/website#">
 <meta name="robots" content="noindex,nofollow">
-<script>(function(){var h=document.documentElement,q=(location.search.match(/[?&]p=([1-7])\b/)||[])[1],s=null;try{s=localStorage.getItem("jFvPat")}catch(e){}var m=q||s||"1";if(!/^[1-7]$/.test(m))m="1";if(q){try{localStorage.setItem("jFvPat",m)}catch(e){}}h.classList.add("fvp","fv"+m,/^[1236]$/.test(m)?"fvL":"fvD")})();</script>
+<script>(function(){var h=document.documentElement,q=(location.search.match(/[?&]p=([1-7])\b/)||[])[1],s=null;try{s=localStorage.getItem("jFvPat")}catch(e){}var m=q||s||"1";if(!/^[1-7]$/.test(m))m="1";if(q){try{localStorage.setItem("jFvPat",m)}catch(e){}}h.classList.add("fvp","fvr","fv"+m,/^[1236]$/.test(m)?"fvL":"fvD")})();</script>
 
-<link rel="stylesheet" href="../assets/sample.css?v=0.15.0">
-<link rel="stylesheet" href="../assets/fvp.css?v=0.15.0">
+<link rel="stylesheet" href="../assets/sample.css?v=0.16.0">
+<link rel="stylesheet" href="../assets/fvp.css?v=0.16.0">
 
 
 
@@ -1486,7 +1486,7 @@ margin-block-end: 24px;
 var e="script#wp-emoji-settings",t=document.querySelector(e);if(!(t instanceof HTMLScriptElement))throw new Error("Element missing: "+e);const r=JSON.parse(t.text),s=(window._wpemojiSettings=r,"wpEmojiSettingsSupports"),o=["flag","emoji"];function i(e){try{var t={supportTests:e,timestamp:(new Date).valueOf()};sessionStorage.setItem(s,JSON.stringify(t))}catch(e){}}function c(e,t,n){e.clearRect(0,0,e.canvas.width,e.canvas.height),e.fillText(t,0,0);t=new Uint32Array(e.getImageData(0,0,e.canvas.width,e.canvas.height).data);e.clearRect(0,0,e.canvas.width,e.canvas.height),e.fillText(n,0,0);const r=new Uint32Array(e.getImageData(0,0,e.canvas.width,e.canvas.height).data);return t.every((e,t)=>e===r[t])}function p(e,t){e.clearRect(0,0,e.canvas.width,e.canvas.height),e.fillText(t,0,0);var n=e.getImageData(16,16,1,1);for(let e=0;e<n.data.length;e++)if(0!==n.data[e])return!1;return!0}function u(e,t,n,r){switch(t){case"flag":return n(e,"\ud83c\udff3\ufe0f\u200d\u26a7\ufe0f","\ud83c\udff3\ufe0f\u200b\u26a7\ufe0f")?!1:!n(e,"\ud83c\udde8\ud83c\uddf6","\ud83c\udde8\u200b\ud83c\uddf6")&&!n(e,"\ud83c\udff4\udb40\udc67\udb40\udc62\udb40\udc65\udb40\udc6e\udb40\udc67\udb40\udc7f","\ud83c\udff4\u200b\udb40\udc67\u200b\udb40\udc62\u200b\udb40\udc65\u200b\udb40\udc6e\u200b\udb40\udc67\u200b\udb40\udc7f");case"emoji":return!r(e,"\ud83e\u1fac8")}return!1}function f(e,t,n,r){let a;const s=(a="undefined"!=typeof WorkerGlobalScope&&self instanceof WorkerGlobalScope?new OffscreenCanvas(300,150):document.createElement("canvas")).getContext("2d",{willReadFrequently:!0}),o=(s.textBaseline="top",s.font="600 32px Arial",{});return e.forEach(e=>{o[e]=t(s,e,n,r)}),o}function a(e){var t=document.createElement("script");t.src=e,t.defer=!0,document.head.appendChild(t)}r.supports={everything:!0,everythingExceptFlag:!0},new Promise(t=>{let n=function(){try{var e=JSON.parse(sessionStorage.getItem(s));if("object"==typeof e&&"number"==typeof e.timestamp&&(new Date).valueOf()<e.timestamp+604800&&"object"==typeof e.supportTests)return e.supportTests}catch(e){}return null}();if(!n){if("undefined"!=typeof Worker&&"undefined"!=typeof OffscreenCanvas&&"undefined"!=typeof URL&&URL.createObjectURL&&"undefined"!=typeof Blob)try{var e="postMessage("+f.toString()+"("+[JSON.stringify(o),u.toString(),c.toString(),p.toString()].join(",")+"));",r=new Blob([e],{type:"text/javascript"});const a=new Worker(URL.createObjectURL(r),{name:"wpTestEmojiSupports"});return void(a.onmessage=e=>{i(n=e.data),a.terminate(),t(n)})}catch(e){}i(n=f(o,u,c,p))}t(n)}).then(e=>{for(const n in e)r.supports[n]=e[n],r.supports.everything=r.supports.everything&&r.supports[n],"flag"!==n&&(r.supports.everythingExceptFlag=r.supports.everythingExceptFlag&&r.supports[n]);var t;r.supports.everythingExceptFlag=r.supports.everythingExceptFlag&&!r.supports.flag,r.supports.everything||((t=r.source||{}).concatemoji?a(t.concatemoji):t.wpemoji&&t.twemoji&&(a(t.twemoji),a(t.wpemoji)))});
 //# sourceURL=https://hiyoshi-cocoromi-cl.jp/wp-includes/js/wp-emoji-loader.min.js
 </script>
-  <script src="../assets/fvp.js?v=0.15.0" data-page="ent"></script>
+  <script src="../assets/fvp.js?v=0.16.0" data-page="ent"></script>
 </body>
 </html>
 

diff --git a/fv-patterns/index.html b/fv-patterns/index.html
@@ -4,7 +4,7 @@
 <meta charset="utf-8">
 <meta name="viewport" content="width=device-width, initial-scale=1">
 <meta name="robots" content="noindex,nofollow">
-<meta name="version" content="0.15.0">
+<meta name="version" content="0.16.0">
 <title>日吉 最初の画面の背景7案</title>
 <style>
 :root{--bg:#faf8f6;--card:#fff;--ink:#1f1d1b;--sub:#625b55;--line:#e6e0d9}
@@ -51,16 +51,18 @@ a:focus-visible{outline:3px solid #6a9bff;outline-offset:2px}
 <h2 id="hd-h">ヘッダー（グロナビ）のグラデーション：全パターン共通</h2>
 <ul>
 <li>左が6月の色そのまま、右へ行くほど同じ色を少し濃く（色の種類は変えず、濃さだけ）。白い文字は6月どおりです</li>
+<li>右端は「黒を混ぜずに濃くした色」です（黒を混ぜるとくすむため。鮮やかさを保ったまま、明るさだけ下げています）</li>
+<li><b>発熱外来の赤</b>は、6月の <code>#E60012</code> より色味をおさえた「落ち着いた赤」<code>#BF3F48</code>（以前の案で使った色）にしました。発熱外来のページ全体とトップの「発熱外来」の札に効きます。赤い面の予約ボタンの文字は白にしています</li>
 <li>トップと各科のページ（8ページすべて）に付けました。ヘッダーの下の白い段（診療科名とメニュー）は6月のままです</li>
 </ul>
 <div class="heads">
-<div class="hd" style="background:linear-gradient(90deg,#FFA0A7,#CA7E84)">トップ・消化器内科<small>#FFA0A7→#CA7E84</small></div>
-<div class="hd" style="background:linear-gradient(90deg,#F8B62D,#C59021)">総合内科<small>#F8B62D→#C59021</small></div>
-<div class="hd" style="background:linear-gradient(90deg,#81B732,#659025)">耳鼻咽喉科<small>#81B732→#659025</small></div>
-<div class="hd" style="background:linear-gradient(90deg,#0A65AC,#064E88)">心療内科・精神科<small>#0A65AC→#064E88</small></div>
-<div class="hd" style="background:linear-gradient(90deg,#4FBAC9,#3D939F)">美容皮膚科<small>#4FBAC9→#3D939F</small></div>
-<div class="hd" style="background:linear-gradient(90deg,#F29C78,#C07B5E)">健康診断<small>#F29C78→#C07B5E</small></div>
-<div class="hd" style="background:linear-gradient(90deg,#E60012,#B6000C)">発熱外来<small>#E60012→#B6000C</small></div>
+<div class="hd" style="background:linear-gradient(90deg,#FFA0A7,#E77984)">トップ・消化器内科<small>#FFA0A7→#E77984</small></div>
+<div class="hd" style="background:linear-gradient(90deg,#F8B62D,#D49700)">総合内科<small>#F8B62D→#D49700</small></div>
+<div class="hd" style="background:linear-gradient(90deg,#81B732,#649700)">耳鼻咽喉科<small>#81B732→#649700</small></div>
+<div class="hd" style="background:linear-gradient(90deg,#0A65AC,#004980)">心療内科・精神科<small>#0A65AC→#004980</small></div>
+<div class="hd" style="background:linear-gradient(90deg,#4FBAC9,#009CAC)">美容皮膚科<small>#4FBAC9→#009CAC</small></div>
+<div class="hd" style="background:linear-gradient(90deg,#F29C78,#DA764B)">健康診断<small>#F29C78→#DA764B</small></div>
+<div class="hd" style="background:linear-gradient(90deg,#BF3F48,#9D1B2D)">発熱外来（落ち着いた赤）<small>#BF3F48→#9D1B2D</small></div>
 </div>
 </section>
 

diff --git a/fv-patterns/assets/fvp.js b/fv-patterns/assets/fvp.js
@@ -1,4 +1,4 @@
-/* 最初の画面の背景7パターンの見本：パネル（パターンの切り替え＋ページ移動） v0.15.0（v0.12.0 は5パターン、v0.13.0 で6・7を追加、v0.14.0 で6・7の濃さを変更、v0.15.0 で6をブルーグレー濃いめに）
+/* 最初の画面の背景7パターンの見本：パネル（パターンの切り替え＋ページ移動） v0.16.0（v0.12.0 は5パターン、v0.13.0 で6・7を追加、v0.14.0 で6・7の濃さを変更、v0.15.0 で6をブルーグレー濃いめに、v0.16.0 で発熱外来の赤をおさえた＝html.fvr。パネルは fvr に触らない）
    パターンは html の fv1〜fv7（と fvL＝明るい背景 1〜3・6 ／ fvD＝暗い背景 4・5・7）で切り替わる。<head> のスクリプトが ?p= か記憶（jFvPat）から最初の値を決める
    ?shot=1 のときはパネルを出さない（説明ページの縮小画像を撮るため） */
 (function () {
@@ -28,7 +28,7 @@
   box.setAttribute('aria-label', '配色見本の案内');
   box.innerHTML =
     '<div class="js-h"><div class="js-t">最初の画面の背景（7パターン）' +
-    '<small>6月の色＋ヘッダーはグラデーション（見本です。本番ではありません）</small></div>' +
+    '<small>6月の色＋ヘッダーはグラデーション・発熱外来は落ち着いた赤（見本です。本番ではありません）</small></div>' +
     '<button type="button" class="js-x" aria-label="小さくする">×</button></div>' +
     '<div class="js-body">' +
     '<div class="js-pat" role="group" aria-label="背景のパターン">' +

diff --git a/fv-patterns/top/index.html b/fv-patterns/top/index.html
@@ -2,10 +2,10 @@
 <html lang="ja">
 <head prefix="og: http://ogp.me/ns# fb: http://ogp.me/ns/fb# website: http://ogp.me/ns/website#">
 <meta name="robots" content="noindex,nofollow">
-<script>(function(){var h=document.documentElement,q=(location.search.match(/[?&]p=([1-7])\b/)||[])[1],s=null;try{s=localStorage.getItem("jFvPat")}catch(e){}var m=q||s||"1";if(!/^[1-7]$/.test(m))m="1";if(q){try{localStorage.setItem("jFvPat",m)}catch(e){}}h.classList.add("fvp","fv"+m,/^[1236]$/.test(m)?"fvL":"fvD")})();</script>
+<script>(function(){var h=document.documentElement,q=(location.search.match(/[?&]p=([1-7])\b/)||[])[1],s=null;try{s=localStorage.getItem("jFvPat")}catch(e){}var m=q||s||"1";if(!/^[1-7]$/.test(m))m="1";if(q){try{localStorage.setItem("jFvPat",m)}catch(e){}}h.classList.add("fvp","fvr","fv"+m,/^[1236]$/.test(m)?"fvL":"fvD")})();</script>
 
-<link rel="stylesheet" href="../assets/sample.css?v=0.15.0">
-<link rel="stylesheet" href="../assets/fvp.css?v=0.15.0">
+<link rel="stylesheet" href="../assets/sample.css?v=0.16.0">
+<link rel="stylesheet" href="../assets/fvp.css?v=0.16.0">
 
 
 
@@ -1630,7 +1630,7 @@ body>main#main-content{padding:50px 0}
         </symbol>
       </defs>
     </svg>
-<script src="../assets/fvp.js?v=0.15.0" data-page="top"></script>
+<script src="../assets/fvp.js?v=0.16.0" data-page="top"></script>
 </body>
 </html>
 
